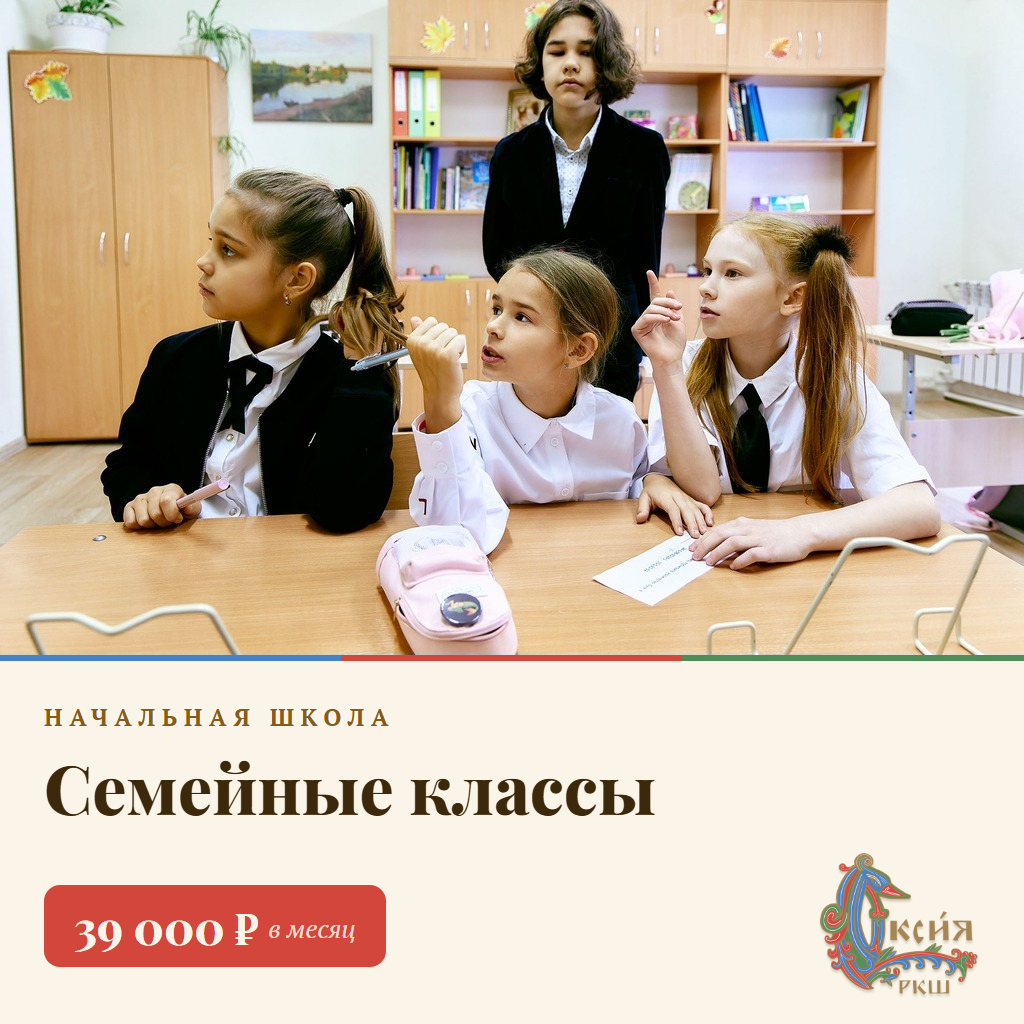
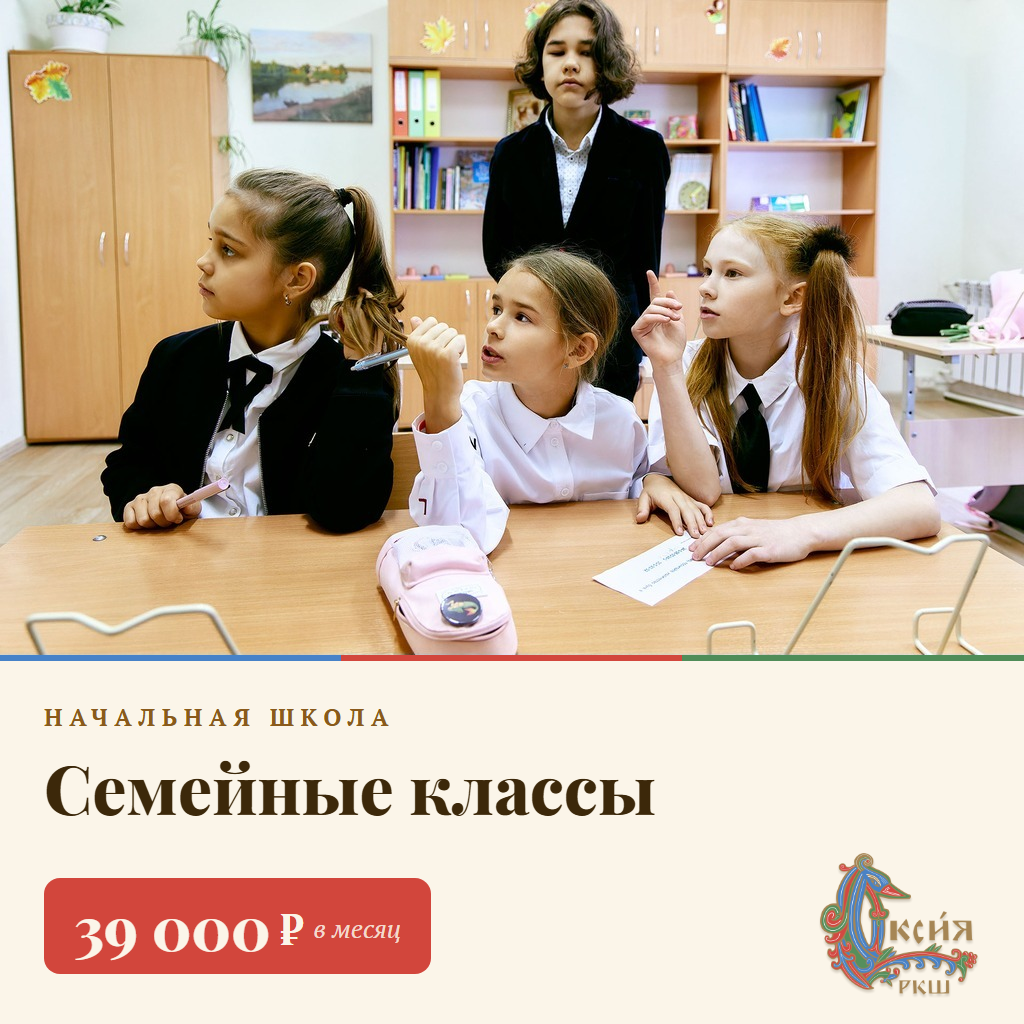
ОКСИЯ: увеличила цифры цены (были мельче знака ₽, съезжали вниз), логотип истории крупнее и по центру между текстом и волнами

Changed region(s): [[0.0312, 0.8438, 0.4375, 0.9688]]

diff --git a/story-preview/_build/card-template.html b/story-preview/_build/card-template.html
@@ -39,6 +39,7 @@
   .price{display:inline-flex;align-items:center;gap:10px;background:var(--red);
     color:var(--cream);border-radius:16px;padding:18px 30px;line-height:1;
     font-family:"Playfair Display",serif;font-weight:800;font-size:46px;}
+  .price .num{font-size:60px;}
   .price .per{font-family:"PT Serif",serif;font-weight:400;font-style:italic;font-size:26px;
     line-height:1;color:rgba(251,245,233,.86);position:relative;top:2px;}
 
@@ -52,7 +53,7 @@
     <div class="kick">Начальная школа</div>
     <div class="title">Семейные классы</div>
     <div class="row">
-      <div class="price">39 000 ₽<span class="per">в месяц</span></div>
+      <div class="price"><span class="num">39 000</span> ₽<span class="per">в месяц</span></div>
       <img class="logo" src="oksia-logo.png" alt="Оксия">
     </div>
   </div>

diff --git a/story-preview/_build/story-sample-01.html b/story-preview/_build/story-sample-01.html
@@ -78,8 +78,8 @@
     color:var(--bronze-soft);
   }
 
-  .logowrap{ margin-top:72px; display:flex; align-items:center; justify-content:center; }
-  .logowrap img{ height:172px; width:auto; }
+  .logowrap{ margin-top:150px; display:flex; align-items:center; justify-content:center; }
+  .logowrap img{ height:220px; width:auto; }
 </style>
 </head>
 <body>
